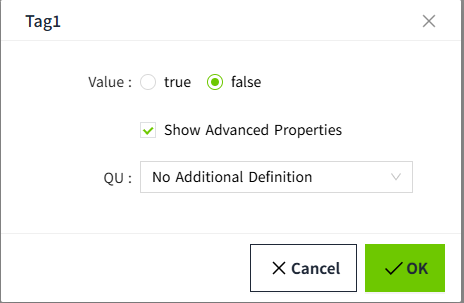
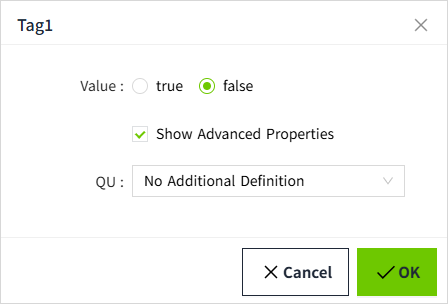
1

diff --git a/docs/2d-visualization/controls/table/table(saas).md b/docs/2d-visualization/controls/table/table(saas).md
@@ -1,0 +1,165 @@
+# Table
+
+Display the data in a table.
+
+![alt text](1.png)
+
+**Properties**
+
+| **Name**          | **Description**   |
+|-------------------|--------------------|
+| Name              | The name of this control.  |
+| X                 | The distance between the left side of the control and the left side of the canvas.  |
+| Y                 | The distance between the top of the control and the top of the canvas. |
+| W                 | The width of the control.|
+| H                 | The height of the control.   |
+| Table             | Set the table contents.  <br>![alt text](2.png) Click this button to set the default data for the table.  <br>![alt text](3.png) Bind data to a table. You can bind SQL queries and dynamic variables.  When bound to an SQL Query, the data returned by the SQL Query is tabular data.  When a dynamic variable is bound, a cell data replacement is performed on the table content that the user manually added.  |     
+| Column Properties | Each column can be configured, such as the column width, the data format of the column, etc.   <br>- **Display JSON**: Displays the data structure of the dataset in json format.    <br>- **Generate Columns**: Displays the manually added columns from the table properties here.  If the table is SQL Query bound, the columns that are queried by SQL Query will be displayed here. <br>- **Name**: Column name.  <br>- **Width Weight**: Proportion of the width of each column in the table control.    <br>- **Hide**: Hides the column on the table control. However, the data is still available for viewing and selection (hidden columns are not exported).    <br>- **Sortable**: Enable column sorting. When enabled, the user can click to sort in ascending or descending order at runtime.    <br>- **Filter**: Enable column filtering. When enabled, you can click the filter button to filter the data in the column at run time.        <br>- **Horizontal Align**: Sets the horizontal alignment of column contents.    <br>- **Data Format**: The format of the content expected to be displayed. You can enter it manually, or you can click the Settings button and double-click to select the format you want.     |  
+| Show              | Sets whether the title and grid should be displayed. <br>![alt text](4.png) |
+| Right Click Menu  | Set whether the right-click menu is supported on the running page, and set the style of the right-click menu.  <br>![alt text](5.png)Set the display and hide of the export operation in the right click menu.  If the "Export" option is checked, right-click the table area on the screen run page, and an "Export" button will be displayed. After clicking this button, the table content will be exported as a CSV file format. <br>Font:Set font type, font size, bold, tilt, and font color for the right-click menu.      | 
+| Border            | Sets the border color and thickness. |
+| Fill              | Set the background color.  <br>- **Header**: Sets the header background color.   <br>- **Body**: Sets the table body background color.          <br>- **Odd Rows**: Set the background color for odd rows.        <br>- **Even Rows**: Sets the background color for even rows.       <br>- **Selection Background**: Sets the background color of the selected row. <br>- **Selection Font**: Sets the font color of the selected line. |
+| Tbale Header      | Styles the header.  <br>- **Row Height**: Sets the row height of the table <br>- **Font**: Sets font type, font size, bold, tilt, font color, and horizontal alignment for the table header. |
+| Table Body        | Set the table body style.  <br>- **Background**: Sets the background color of the table body. If you want to alternate different colors on the table body, you can choose the background to alternate between odd and even rows. You can set the background color for odd and even rows, respectively. <br>- **Row Height**: Set the height of each row.  <br>- **Font**: Set the table body font type, font size, bold, slant, and font color. | 
+
+**Event**
+
+Allows you to perform specific events based on certain conditions. See the full description of each event on the [Event](../../event/index.md) page.
+
+**Example 1**
+
+Click the button to query the weather information of the latest period of time, and display the query results through the table.
+
+1. Drag the table and button controls onto the page.
+2. Select the button control and click the icon pointed by the arrow to open the configuration page of the action.
+
+    ![alt text](6.png)
+
+3. To configure the mouse press event for the button, write the following script: When the button is pressed, get the weather data，And through the  **System.Datatable.toDatatable** function, the results of the query are converted into the format that the table can display.
+
+    ![alt text](7.png)
+
+    ```typescript
+    const source = [
+        {
+            "date": "2025-03-04",
+            "current_temperature": 2.2,
+            "min_temperature": 0.5,
+            "max_temperature": 3.9,
+            "weather": "Cloudy day",
+            "wind_speed": "12 km/h",
+            "humidity": "85%"
+        },
+        {
+            "date": "2025-03-05",
+            "current_temperature": 4.8,
+            "min_temperature": 0.7,
+            "max_temperature": 8.8,
+            "weather": "Cloudy",
+            "wind_speed": "15 km/h",
+            "humidity": "78%"
+        },
+        {
+            "date": "2025-03-06",
+            "current_temperature": 6.8,
+            "min_temperature": 0.0,
+            "max_temperature": 13.6,
+            "weather": "Sunny",
+            "wind_speed": "10 km/h",
+            "humidity": "72%"
+        },
+        {
+            "date": "2025-03-07",
+            "current_temperature": 5.8,
+            "min_temperature": 0.0,
+            "max_temperature": 11.7,
+            "weather": "Light rain",
+            "wind_speed": "18 km/h",
+            "humidity": "88%"
+        },
+        {
+            "date": "2025-03-08",
+            "current_temperature": 8.8,
+            "min_temperature": 1.7,
+            "max_temperature": 15.8,
+            "weather": "Cloudy day",
+            "wind_speed": "14 km/h",
+            "humidity": "80%"
+        },
+        {
+            "date": "2025-03-09",
+            "current_temperature": 9.6,
+            "min_temperature": 4.2,
+            "max_temperature": 15.0,
+            "weather": "Cloudy",
+            "wind_speed": "13 km/h",
+            "humidity": "76%"
+        },
+        {
+            "date": "2025-03-10",
+            "current_temperature": 11.4,
+            "min_temperature": 5.4,
+            "max_temperature": 17.4,
+            "weather": "Cloudy",
+            "wind_speed": "9 km/h",
+            "humidity": "68%"
+        },
+        {
+            "date": "2025-03-11",
+            "current_temperature": 11.5,
+            "min_temperature": 6.2,
+            "max_temperature": 16.7,
+            "weather": "Cloudy",
+            "wind_speed": "16 km/h",
+            "humidity": "85%"
+        },
+        {
+            "date": "2025-03-12",
+            "current_temperature": 14.7,
+            "min_temperature": 8.6,
+            "max_temperature": 20.7,
+            "weather": "Cloudy",
+            "wind_speed": "10 km/h",
+            "humidity": "70%"
+        }
+    ]
+    // Convert weather data to a table-compatible format
+    const rows = System.Datatable.toDatatable(source);
+    // Find table
+    const tableControl = await System.UI.findControl('Table1');
+    // Set the table content
+    tableControl.table = rows;
+    // Reload the table data
+    tableControl.reload();
+    ```
+ 
+4.Click the preview button on the page. After clicking the button on the preview page, query the weather data and display the data in the table.
+    ![table](../../../assets/images/table.gif)
+
+**Example 2**
+
+The real-time speed of the different motors is displayed in the table.
+
+By binding dynamic cell , the motor speed value is replaced dynamically.
+
+1. In the tool window of the design page, find the 'Table' control and drag it to the page.
+2. After selecting the table control, click the data set button of "Table" in the properties bar to add data.
+
+    ![alt text](17.png)
+
+3. Add 2 columns: name, speed. Create 3 rows of data named motor 1, motor 2 and motor 3 with the speed blank.
+
+    ![alt text](19.png)
+
+4. Click the binding button of "Table" in the property bar to perform dynamic cell binding on the rotational speed.
+
+    ![alt text](18.png)
+
+5. When the binding window is opened, a variable is bound for each speed. Click the "OK" button to complete the binding.
+
+    ![alt text](20.png)
+
+6. Click the preview button of the page to view. The result is as follows:
+
+    ![historical-event1](../../../assets/images/historical-event1.gif)
+
